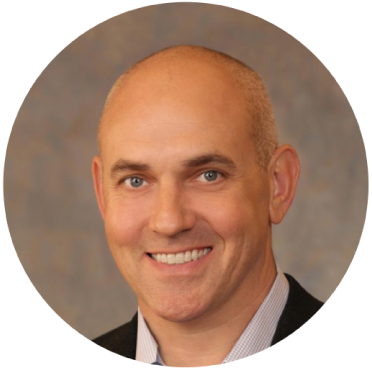
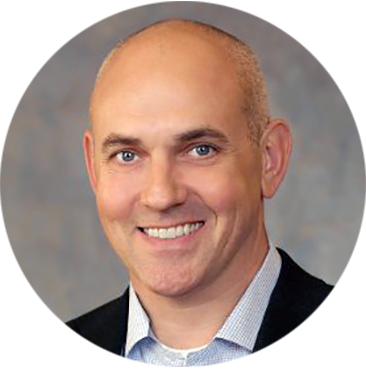
added board

diff --git a/site/layouts/partials/footer.html b/site/layouts/partials/footer.html
@@ -2,35 +2,32 @@
 
 	<div class="mw7 center pt3">
 
-		<div class="flex justify-between">
+		<div class="flex-ns justify-between">
 
-			<div class="w-33" style="font-size:0.7rem;">
-				<img src="/img/logomark.svg" class="br0" />
-				<ul class="mb3 pt2">
-					<li><img src="/img/icon-email.svg" class="mr1 mb1 mw1 br0" style="vertical-align:middle" /><a href="mailto:help@bluenotetx.com" class="link">Email</a></li>
-					<li><img src="/img/icon-linkedin.svg" class="mr1 mb1 mw1 br0" style="vertical-align:middle" /><a href="https://www.linkedin.com/company/blue-note-therapeutics" class="link">LinkedIn</a></li>
-				</ul>
+			<div class="w-40-ns tc tl-ns" style="font-size:0.7rem;">
+				<p><strong>Blue Note Therapeutics</strong><br />
+					548 Market St, #55709<br />
+					San Francisco, California 94104<br />
+					<!-- <img src="/img/icon-linkedin.svg" class="mr1 mb1 mw1 br0" style="vertical-align:middle" /><a href="https://www.linkedin.com/company/blue-note-therapeutics" class="link">LinkedIn</a> -->
+				</p>
 			</div>
 
-			<div class="w-33" style="font-size:0.7rem;">
-				<p class="tc mt0"><span class="f5 b">Product Help</span>
+			<div class="w-20-ns tc">
+				<img src="/img/logomark.svg" class="br0 mb3" />
+			</div>
+			
+
+			<div class="w-40-ns tc tr-ns" style="font-size:0.7rem;">
+				<p class="mt0"><strong>Product Help</strong>
 					<br />415-200-3697
 					<br /><a href="mailto:help@bluenotetx.com" class="link">help@bluenotetx.com</a>
 				</p>
 			</div>
 
-			<div class="w-33 tr" style="font-size:0.7rem;">
-				<p><strong>Blue Note Therapeutics</strong><br />
-					548 Market St, #55709<br />
-					San Francisco, California 94104<br />
-					<a href="{{.Permalink}}#open-modal-contact" class="link">&#8594; Contact Us</a>
-					</p>
-			</div>
-
 		</div>
 
-		<div class="tc" style="font-size:0.7rem;"><a href="/privacy" class="link">Privacy Policy</a><br />
-			© 2020 Blue Note Therapeutics. All rights reserved.
+		<div class="tc" style="font-size:0.7rem;"><a href="/privacy" class="link">Privacy Policy</a> | <a href="{{.Permalink}}#open-modal-contact" class="link"> Contact Us</a><br />
+			© 2021 Blue Note Therapeutics. All rights reserved.
 		</div>
 	</div>
 

diff --git a/site/layouts/section/about.html b/site/layouts/section/about.html
@@ -11,6 +11,8 @@
 
 {{ partial "3-up" .Params.people }}
 
+{{ partial "3-up" .Params.board }}
+
 <a name="{{.Params.link}}">&nbsp;</a>
 {{ partial "3-up" .Params.partners }}
 

diff --git a/site/content/about/_index.md b/site/content/about/_index.md
@@ -30,6 +30,19 @@ people:
         - name: Dianne Shumay
           title: Scientific Advisor
           image: /img/profile-dianne2.png
+board:
+    heading: Board of Directors
+    description: 
+    items:
+        - name: Andrew Firlik
+          title: Jazz Venture Partners
+          image: /img/profile-andrew.png
+        - name: John Harris
+          title: Jazz Venture Partners
+          image: /img/profile-john.png
+        - name: Geoff Eich
+          title: Blue Note Therapeutics
+          image: /img/profile-geoff.png
 partners:
     heading: We Can't Do This Alone
     description: Blue Note Therapeutics is honored to work with the National Comprehensive Cancer Network (NCCN) and other leading cancer care organizations in our quest to help cancer patients live better.
